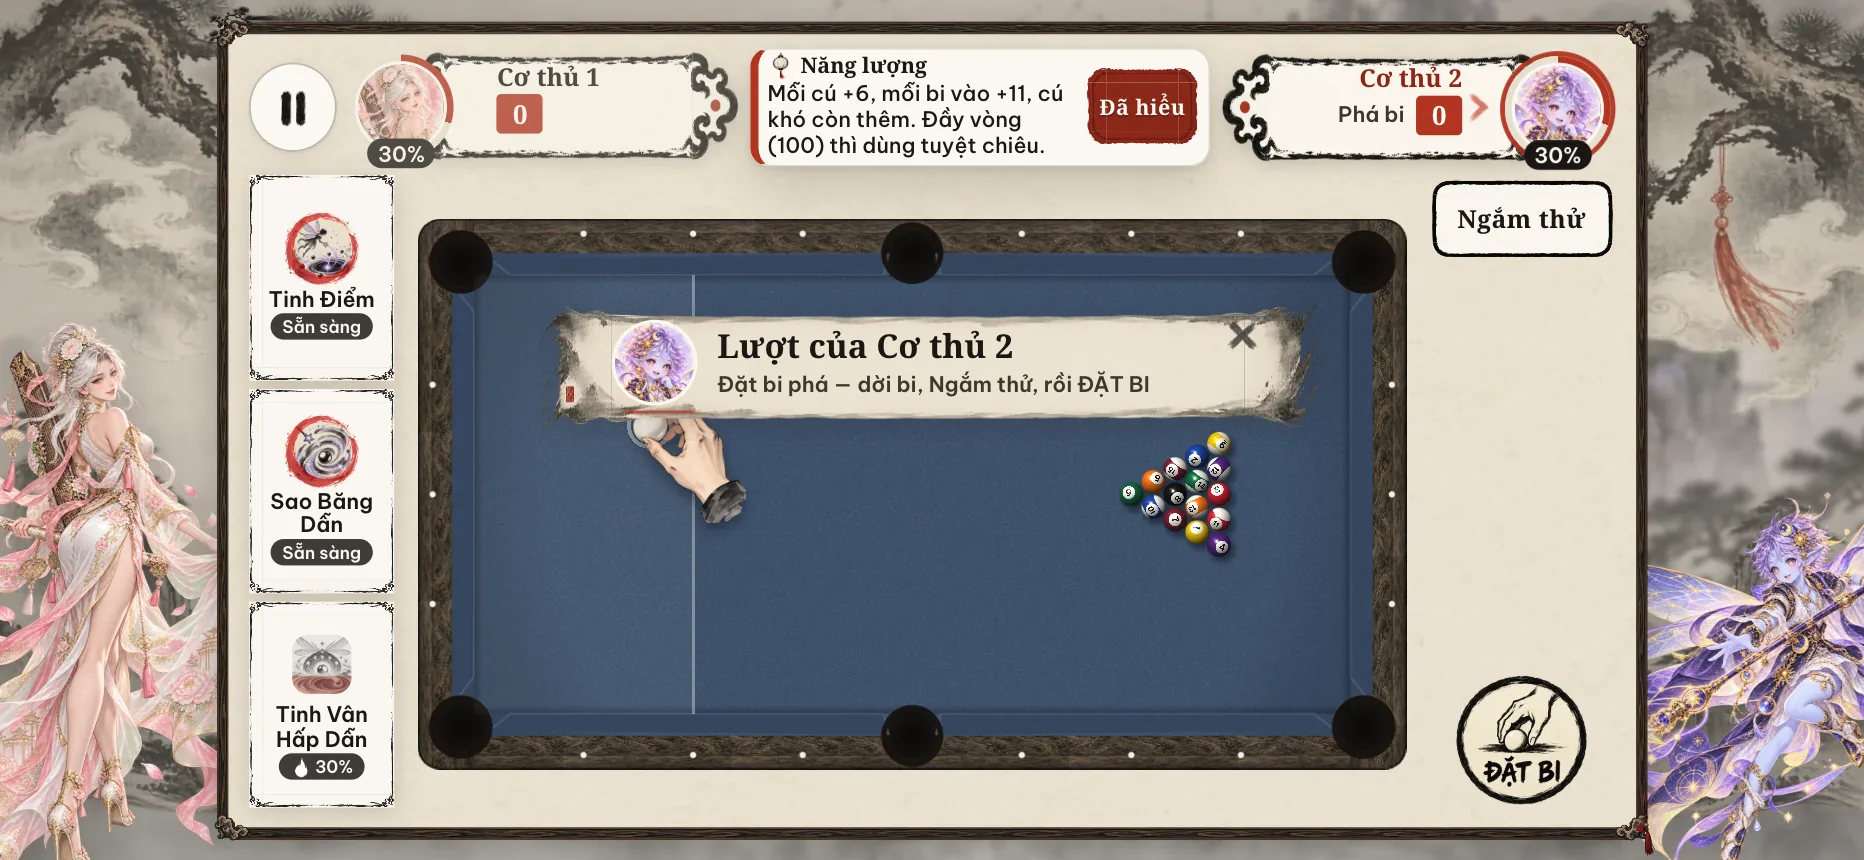
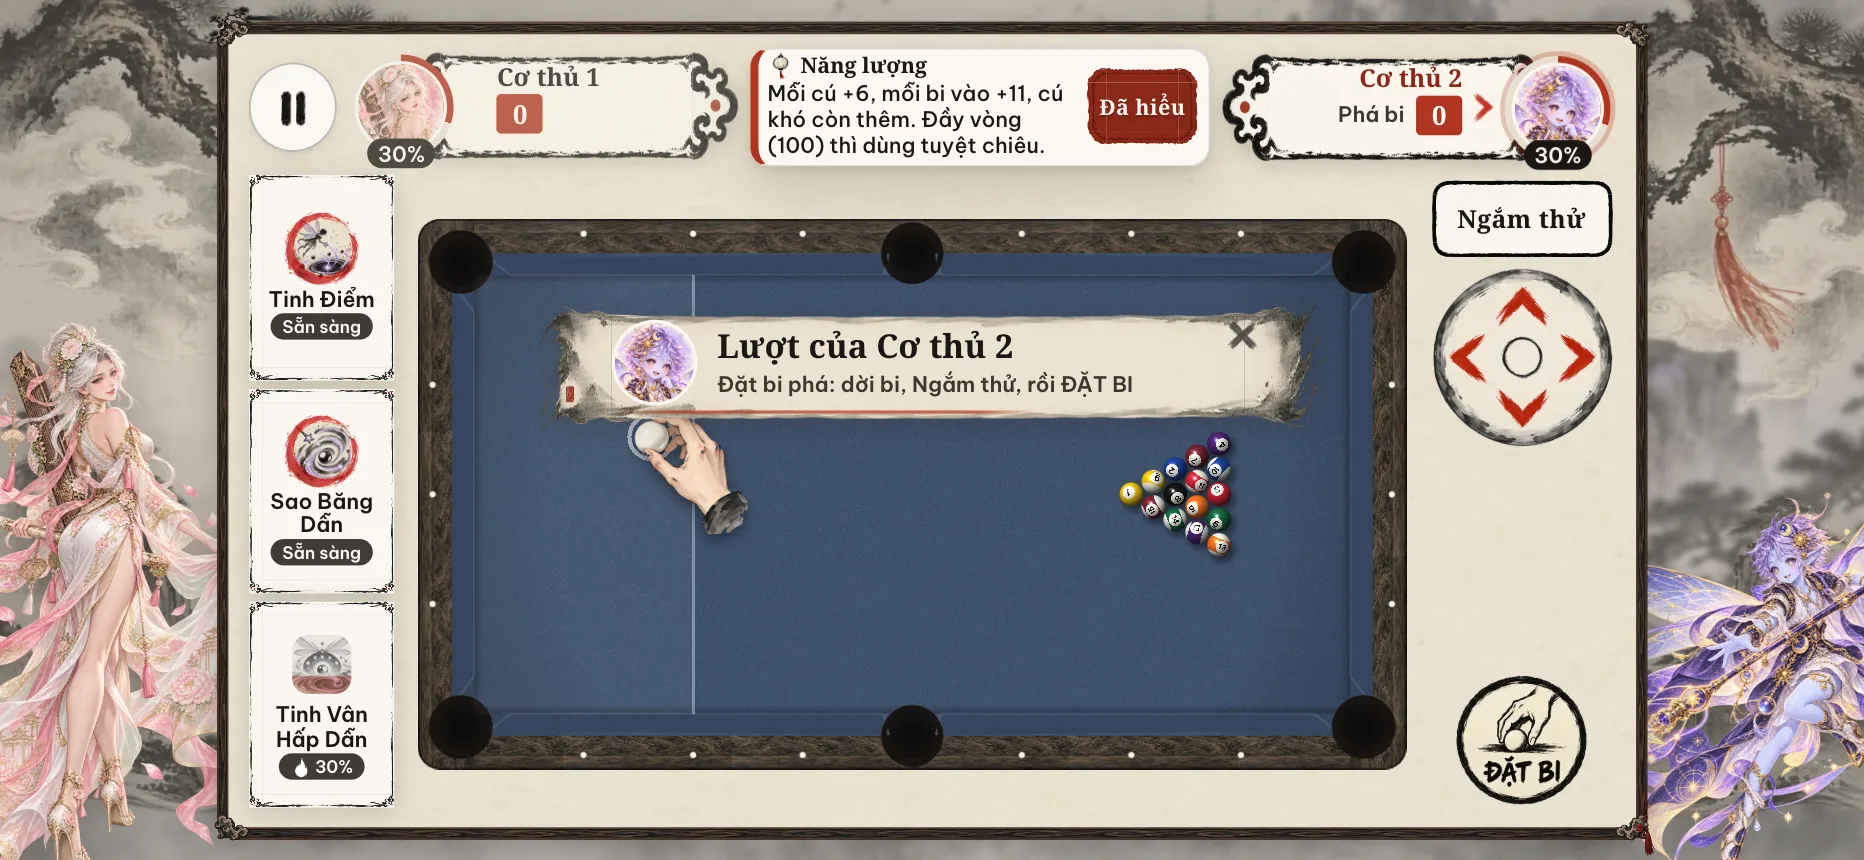
docs: rewrite dash and arrow constructions as sentences [skip ci]
Retake the match screenshot whose banner text changed.

diff --git a/docs/guides/art-pipeline.md b/docs/guides/art-pipeline.md
@@ -27,33 +27,33 @@ response để kiểm tra trước khi chạy lại.
 
 ## Quy trình
 
-1. **Thiết kế bằng chữ** — `src/game/content/roster.json` giữ `look` của từng tướng: giới tính, tuổi,
+1. **Thiết kế bằng chữ**: `src/game/content/roster.json` giữ `look` của từng tướng: giới tính, tuổi,
    tóc, trang phục, cây cơ, dấu hiệu riêng; cùng dữ liệu môn phái và chiêu.
-2. **Sinh prompt** — `build-prompts.py` ghép đề bài với khối phong cách. Prompt chân dung, biểu cảm và
+2. **Sinh prompt**: `build-prompts.py` ghép đề bài với khối phong cách. Prompt chân dung, biểu cảm và
    ăn mừng đều chèn **toàn bộ `look`**, dưới chỉ dẫn “Character spec … must match”. Icon dùng mực đen
    và một màu nhấn môn phái, cấm phát sáng, ánh kim và màu thừa; ô biểu tượng là dấu son + đen.
    Flipbook dùng mực màu môn phái, mép cọ trắng giấy, cấm glow và mảng trắng sáng. Khi duyệt prompt,
    áp dụng chung quy tắc không ánh kim, không màu thừa cho icon, biểu tượng và flipbook.
-3. **Vẽ** — `gen-sect.sh` vẽ cut-out trước cho từng tướng, rồi chân dung và tư thế ăn mừng tham chiếu
+3. **Vẽ**: `gen-sect.sh` vẽ cut-out trước cho từng tướng, rồi chân dung và tư thế ăn mừng tham chiếu
    cut-out; bảng 2×2 biểu cảm tham chiếu chân dung. Script còn vẽ splash, cut-in, bảng 4×4 icon,
    bảng 5×5 VFX, flipbook 4×4, viền bàn và hai cây cơ; bỏ qua ảnh gốc đã có.
-4. **Cắt và xuất** — `process-sect.py` cắt lưới, tách nền và xuất webp vào `public/art/`, tạo bảng duyệt.
+4. **Cắt và xuất**: `process-sect.py` cắt lưới, tách nền và xuất webp vào `public/art/`, tạo bảng duyệt.
    Riêng icon UI dùng `slice-ui-icons.py SHEET.png OUT_DIR name1 … name16`: cắt bảng 4×4, flood fill
    từ mép từng ô để xoá giấy, giữ phần trắng nằm trong viền mực như bi và bàn tay, xuất tối đa 128 px.
    Icon UI ở `public/art/ui/icons/`, được `src/ui/icons.ts` phục vụ qua `icon(name)`.
-5. **Duyệt** — đóng vai người duyệt khó tính: so từng tranh với `look`, ảnh tham chiếu và các tướng
+5. **Duyệt**: đóng vai người duyệt khó tính: so từng tranh với `look`, ảnh tham chiếu và các tướng
    khác. Loại ảnh sai giới tính, mặt/tóc/mắt/dấu nhận diện/trang phục/cơ; loại tướng giống nhau hoặc
    giống nhân vật đã có, chữ sai dấu, vật thể sai nghĩa, màu thừa, ánh kim hay lạc phong cách.
    Không chấp nhận chỉ vì ảnh đẹp. Khi vẽ lại tướng, **vẽ lại cả những cảnh truyện có tướng trong `cast`**.
-6. **Đồng bộ nền** — `rebackground.sh WORK SECT [ids]` dùng ảnh cũ làm tham chiếu, chỉ vẽ lại nền chân
+6. **Đồng bộ nền**: `rebackground.sh WORK SECT [ids]` dùng ảnh cũ làm tham chiếu, chỉ vẽ lại nền chân
    dung và biểu cảm thành giấy dó, giữ nhân vật; chuyển bản cũ vào `raw/old/`, bỏ qua ảnh đã có nền giấy.
-7. **Tranh truyện** — `gen-story-art.sh WORK [scenes]` đọc `scenes` và `cast` trong `story.json`, gửi
+7. **Tranh truyện**: `gen-story-art.sh WORK [scenes]` đọc `scenes` và `cast` trong `story.json`, gửi
    cut-out của từng tướng trong cảnh làm tham chiếu kèm `look`; `vodanh` dùng `references/story-vodanh.webp`
    trong skill. Nếu thiếu cut-out của bất kỳ tướng nào trong cảnh, script bỏ qua cảnh để chạy lại sau.
    Bỏ qua PNG gốc đã có; đặt `REDO=1` để vẽ lại các cảnh được chỉ định, xuất vào
    `public/art/story/`.
 
-8. **Tư thế kết liễu** — mỗi tướng có `champions/{id}/finisher.webp` cho hiệu ứng Kết liễu: cùng nhân vật với
+8. **Tư thế kết liễu**: mỗi tướng có `champions/{id}/finisher.webp` cho hiệu ứng Kết liễu: cùng nhân vật với
    cut-out (gửi cut-out làm `--ref`, chèn toàn bộ `look`), lao người theo đường chéo từ trên trái xuống dưới
    phải, đầu cơ thúc về góc dưới phải, một vệt mực màu môn phái theo sau đầu cơ, nền trong suốt, khổ
    1536×1024. Xuất bản cắt sát, tối đa 820 px, webp chất lượng 74 (khoảng 230 KB mỗi tướng). Nếu thiếu tranh,

diff --git a/README.md b/README.md
@@ -1,7 +1,7 @@
-# Cơ Tiên — bida × tu tiên
+# Cơ Tiên: bida tu tiên
 
 Game bida cho điện thoại (màn hình ngang) và máy tính, với vật lý và luật bida thật, đặt trong một thế giới
-tiên hiệp riêng: **Cơ Tiên Giới** — 13 môn phái, 65 tướng, mỗi tướng có một nội tại và ba chiêu. Cài được như
+tiên hiệp riêng: **Cơ Tiên Giới** với 13 môn phái, 65 tướng, mỗi tướng có một nội tại và ba chiêu. Cài được như
 ứng dụng (PWA), chơi offline, không cần tài khoản.
 
 **Chơi ngay:** https://cotien.khoinda.vn/
@@ -32,7 +32,7 @@ tiên hiệp riêng: **Cơ Tiên Giới** — 13 môn phái, 65 tướng, mỗi 
 | **Song Đấu** | Hai người chung một máy, mỗi bên chọn tướng và cơ riêng |
 | **Luyện Cơ** | 60 thử thách có lời giải đã kiểm chứng, chấm sao |
 | **Luyện thế** | Tự bày thế, đánh tự do, đánh lại, xem trước đường đi của mọi bi |
-| **Tàng Các** | Tướng, Pháp Cơ, Linh Đài và Cơ Tiên Lục — wiki của thế giới |
+| **Tàng Các** | Tướng, Pháp Cơ, Linh Đài và Cơ Tiên Lục: wiki của thế giới |
 | **Cơ Tiên Truyện** | Truyện chữ có tranh thuỷ mặc, 15 chương mở dần theo Hành trình |
 
 **Làm cho điện thoại.**
@@ -82,24 +82,24 @@ npm run build
 
 Tài liệu:
 
-- [docs/README.md](docs/README.md) — mục lục tài liệu: kiến trúc, lối chơi, thế giới, hướng dẫn, quyết định
-- [CONTRIBUTING.md](CONTRIBUTING.md) — quy tắc và quy trình đóng góp
-- [AGENTS.md](AGENTS.md) — quy tắc cho AI agent
+- [docs/README.md](docs/README.md): mục lục tài liệu gồm kiến trúc, lối chơi, thế giới, hướng dẫn, quyết định
+- [CONTRIBUTING.md](CONTRIBUTING.md): quy tắc và quy trình đóng góp
+- [AGENTS.md](AGENTS.md): quy tắc cho AI agent
 
 ## Ý tưởng, nội dung và đồ hoạ đến từ đâu
 
-- **Ý tưởng và định hướng:** tác giả (Nguyễn Đức Anh Khôi) — game bida tu tiên, thế giới Cơ Tiên Giới, lối
+- **Ý tưởng và định hướng:** tác giả (Nguyễn Đức Anh Khôi): game bida tu tiên, thế giới Cơ Tiên Giới, lối
   chơi, phong cách Thuỷ Mặc, tên game, và mọi quyết định duyệt hay loại nội dung.
 - **Nguyên bản:** toàn bộ tên, truyện, môn phái, nhân vật, chiêu thức và tranh là sáng tác riêng cho Cơ Tiên,
   không dùng nội dung của bất kỳ game hay tác phẩm nào khác.
-- **Viết nội dung và code:** phát triển cùng trợ lý AI (Claude, qua Claude Code) theo chỉ đạo của tác giả —
+- **Viết nội dung và code:** phát triển cùng trợ lý AI (Claude, qua Claude Code) theo chỉ đạo của tác giả;
   trợ lý đề xuất và viết, tác giả chọn và duyệt.
 - **Đồ hoạ:** toàn bộ tranh vẽ bằng mô hình sinh ảnh AI (`cx/gpt-6-sol-image` qua 9router) theo prompt viết
   riêng cho game, rồi duyệt và chỉnh từng tấm: [docs/guides/art-pipeline.md](docs/guides/art-pipeline.md).
 
 ## Giấy phép
 
-- **Mã nguồn:** MIT — xem [LICENSE](LICENSE).
+- **Mã nguồn:** MIT, xem [LICENSE](LICENSE).
 - **Agent skill bên thứ ba** trong `.claude/skills`, giữ nguyên bản gốc:
   - các skill game dev lấy từ
     [gamedev-skills/awesome-gamedev-agent-skills](https://github.com/gamedev-skills/awesome-gamedev-agent-skills),

diff --git a/docs/guides/add-champion.md b/docs/guides/add-champion.md
@@ -5,18 +5,18 @@ chạy `npm test` và `npm run build` sau mỗi bước.
 
 ## Thêm một tướng
 
-1. **Dữ liệu** — thêm vào `src/game/content/roster.json`: `id`, `name`, `sect`, `tier`, `kind` (một trong sáu
+1. **Dữ liệu**: thêm vào `src/game/content/roster.json`: `id`, `name`, `sect`, `tier`, `kind` (một trong sáu
    loại tạo hình), `cls` (một trong bảy hệ), ba `skills` (slot 0/1 cơ bản, slot 2 tuyệt chiêu; `kinds` lấy từ
    `SkillKind`). Phần mô tả để vẽ: `look` (ghi rõ giới tính và một tổ hợp nét nhận diện không trùng tướng
    khác), `pose`, `expr`, và `icon` cho từng chiêu. Bản build lược các trường mô tả vẽ; code game không đọc chúng.
-2. **Tên** — tên tướng và chiêu phải nguyên bản, không lấy từ game hay tác phẩm khác.
+2. **Tên**: tên tướng và chiêu phải nguyên bản, không lấy từ game hay tác phẩm khác.
    `tests/roster-names.test.ts` kiểm tra tên chiêu không trùng và không lặp chữ đầu quá nhiều trong môn phái.
-3. **Truyện** — tiểu sử và câu nói vào `src/game/content/lore.json`.
-4. **Tranh** — theo [art-pipeline.md](art-pipeline.md): cut-out, chân dung, biểu cảm, ăn mừng, ba icon chiêu
+3. **Truyện**: tiểu sử và câu nói vào `src/game/content/lore.json`.
+4. **Tranh**: theo [art-pipeline.md](art-pipeline.md): cut-out, chân dung, biểu cảm, ăn mừng, ba icon chiêu
    và tư thế Kết liễu `champions/{id}/finisher.webp`. Duyệt từng tấm trước khi xuất vào `public/art/`.
-5. **Tài liệu** — thêm tướng vào bảng môn phái trong [world/world-bible.md](../world/world-bible.md) (tên, loại,
+5. **Tài liệu**: thêm tướng vào bảng môn phái trong [world/world-bible.md](../world/world-bible.md) (tên, loại,
    hệ, tên và nhóm cơ chế của ba chiêu).
-6. **Kiểm tra** — `npm test`, `npm run build`, rồi mở trang tướng và một trận Tiên Đạo để thử ba chiêu.
+6. **Kiểm tra**: `npm test`, `npm run build`, rồi mở trang tướng và một trận Tiên Đạo để thử ba chiêu.
 
 ## Thêm một môn phái
 

diff --git a/docs/architecture/rendering.md b/docs/architecture/rendering.md
@@ -15,12 +15,12 @@
 - **Chỉ vẽ lại khi hình đổi.** Mỗi khung `TableView` gom mọi biến đổi, texture, hướng xoay bi và lệnh vẽ đường
   ngắm thành một dãy số và so với khung trước; `App` tắt render tự động của ticker và màn trận chỉ gọi
   `app.pixi.render()` khi `shouldRender()` đúng (cộng vài khung bắt buộc sau đổi kích thước, quay lại ứng dụng,
-  khôi phục WebGL). Bàn đứng yên lúc ngắm hay chờ AI vì thế không tốn GPU — quan trọng cho pin điện thoại.
+  khôi phục WebGL). Bàn đứng yên lúc ngắm hay chờ AI vì thế không tốn GPU, điều quan trọng với pin điện thoại.
 - **Đường đi của Thần Nhãn / Luyện thế mọc dần** trong ngân sách `EAGLE_BUDGET_MS` mỗi khung, nên kéo ngắm vẫn mượt.
 - **Giới hạn mật độ canvas** ở 2× và khoảng 3,6 MP (`src/ui/app.ts`) vì canvas phủ cả cửa sổ; MSAA chỉ bật khi
   màn hình kém nét.
 - **Texture canvas thuộc về một `TableView`**: vẽ lại thì huỷ bản cũ, `destroy()` huỷ hết cùng shader bi, nên
-  vào–ra trận bao nhiêu lần bộ nhớ GPU vẫn như cũ. Ảnh tải qua `Assets` dùng chung và không bị huỷ.
+  vào ra trận bao nhiêu lần bộ nhớ GPU vẫn như cũ. Ảnh tải qua `Assets` dùng chung và không bị huỷ.
 - **Mất WebGL**: PixiJS tự dựng lại khi trình duyệt trả context; quá lâu thì `app.ts` hiện bảng "Đồ hoạ bị gián
   đoạn" với nút Tải lại.
 - **Cây cơ tranh được phóng theo bề dày thân phía đầu cơ** (đo một lần từ kênh alpha), nên tua rua hay chạm

diff --git a/docs/gameplay/skills-and-terrain.md b/docs/gameplay/skills-and-terrain.md
@@ -16,7 +16,7 @@ Lý do: [decisions/real-physics.md](../decisions/real-physics.md).
 - Mỗi chiêu là một danh sách nhóm cơ chế (`kinds`). Danh sách nhóm là `SkillKind` trong
   `src/game/content/sects.ts`; hồi chiêu theo nhóm đầu tiên (`KIND_COOLDOWN`), sức mạnh theo bậc ở cùng file.
   Tuyệt chiêu cần đầy năng lượng và mạnh hơn bậc tướng.
-- **Tám nhóm đặt trên bàn** — `slick`, `sand`, `bumper`, `railcraft`, `wind`, `well`, `spinwash`, `vortex` —
+- **Tám nhóm đặt trên bàn** (`slick`, `sand`, `bumper`, `railcraft`, `wind`, `well`, `spinwash`, `vortex`)
   nhận một `SkillCast` (`src/game/skill-cast.ts`): tâm, hướng, đoạn băng, chiều xoáy, băng mềm/cứng. Bỏ trống
   thì `buildCast` chọn mặc định hợp lệ (trong nỉ, không đè bi, vật chắn tránh bi và lỗ). Ý nghĩa từng nhóm:
   [world/world-bible.md](../world/world-bible.md#kỹ-năng).

diff --git a/docs/decisions/journey-map.md b/docs/decisions/journey-map.md
@@ -3,8 +3,8 @@
 ## Bối cảnh
 
 Bản đồ `public/art/ui/map.webp` (3:2) phải vẽ đúng tuyến `CHAPTERS` trong `src/game/content/career.ts`:
-Thiên Quang → Hoa Linh → Hải Long → Thiên Cơ → Băng Phách → Độc Vụ → Kim Sa → Vạn Thú → Huyết Sát → U Minh →
-Tinh Tú → Thiên Hương → Hư Không.
+lần lượt Thiên Quang, Hoa Linh, Hải Long, Thiên Cơ, Băng Phách, Độc Vụ, Kim Sa, Vạn Thú, Huyết Sát, U Minh,
+Tinh Tú, Thiên Hương và cuối cùng là Hư Không.
 
 ## Quyết định
 

diff --git a/docs/guides/testing.md b/docs/guides/testing.md
@@ -26,7 +26,7 @@ Tên file trong `tests/` nói lên phạm vi. Những test giữ một quy tắc
 | `shot-score.test.ts` | Cách chấm điểm cú |
 | `skill-usage.test.ts` | AI dùng chiêu, năng lượng và hồi chiêu |
 
-Test sai thì sửa code, không sửa test cho qua — trừ khi quy tắc thực sự đổi và đã được đồng ý.
+Test sai thì sửa code, không sửa test cho qua, trừ khi quy tắc thực sự đổi và đã được đồng ý.
 
 ## Kiểm tra trên thiết bị
 
